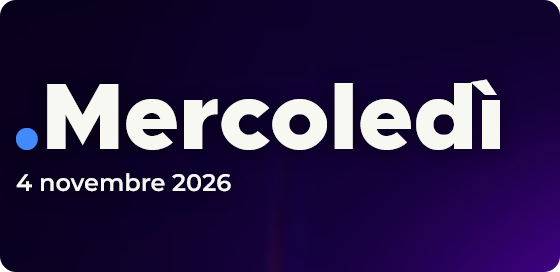
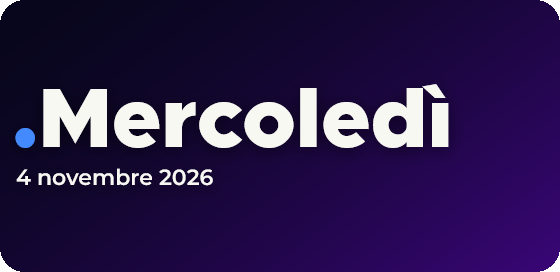
Date widget: size from longest weekday/date of the language (2.1.2)
Claude-Session: https://claude.ai/code/session_01TQxuuqy7Zop3gq1fjvXepm

diff --git a/src/date/index.tsx b/src/date/index.tsx
@@ -13,11 +13,26 @@ function DateWidget() {
   const size = useSize();
   const now = useClock("minute");
 
+  // Longest weekday / date line of the current language, so the size never changes with the day.
+  const longest = (fmt: string, n: number, step: (i: number) => Date) => {
+    let w = "";
+    for (let i = 0; i < n; i++) {
+      const t = formatDate(step(i), fmt);
+      if (t.length > w.length) w = t;
+    }
+    return w;
+  };
+  const widest = () => longest("dddd", 7, (i) => new Date(2024, 0, 1 + i)).length;
+  const widestDate = () => longest("D MMMM YYYY", 12, (i) => new Date(2024, i, 28)).length;
+
   const day = () => cap(formatDate(now(), "dddd"));
   const date = () => formatDate(now(), "D MMMM YYYY");
   const pad = () => (l().card ? 16 : 6);
   const big = () => {
-    const byW = (size().width - pad() * 2) / ((day().length + 0.5) * GLYPH);
+    const avail = size().width - pad() * 2;
+    const byDay = avail / ((widest() + 1.5) * GLYPH);
+    const byDate = s().showDate ? avail / (widestDate() * GLYPH * 0.262 + 0.2) : Infinity;
+    const byW = Math.min(byDay, byDate);
     const byH = (size().height - pad() * 2) / (s().showDate ? 1.32 : 1.05);
     return Math.floor(clamp(Math.min(byW, byH), 18, 200));
   };
